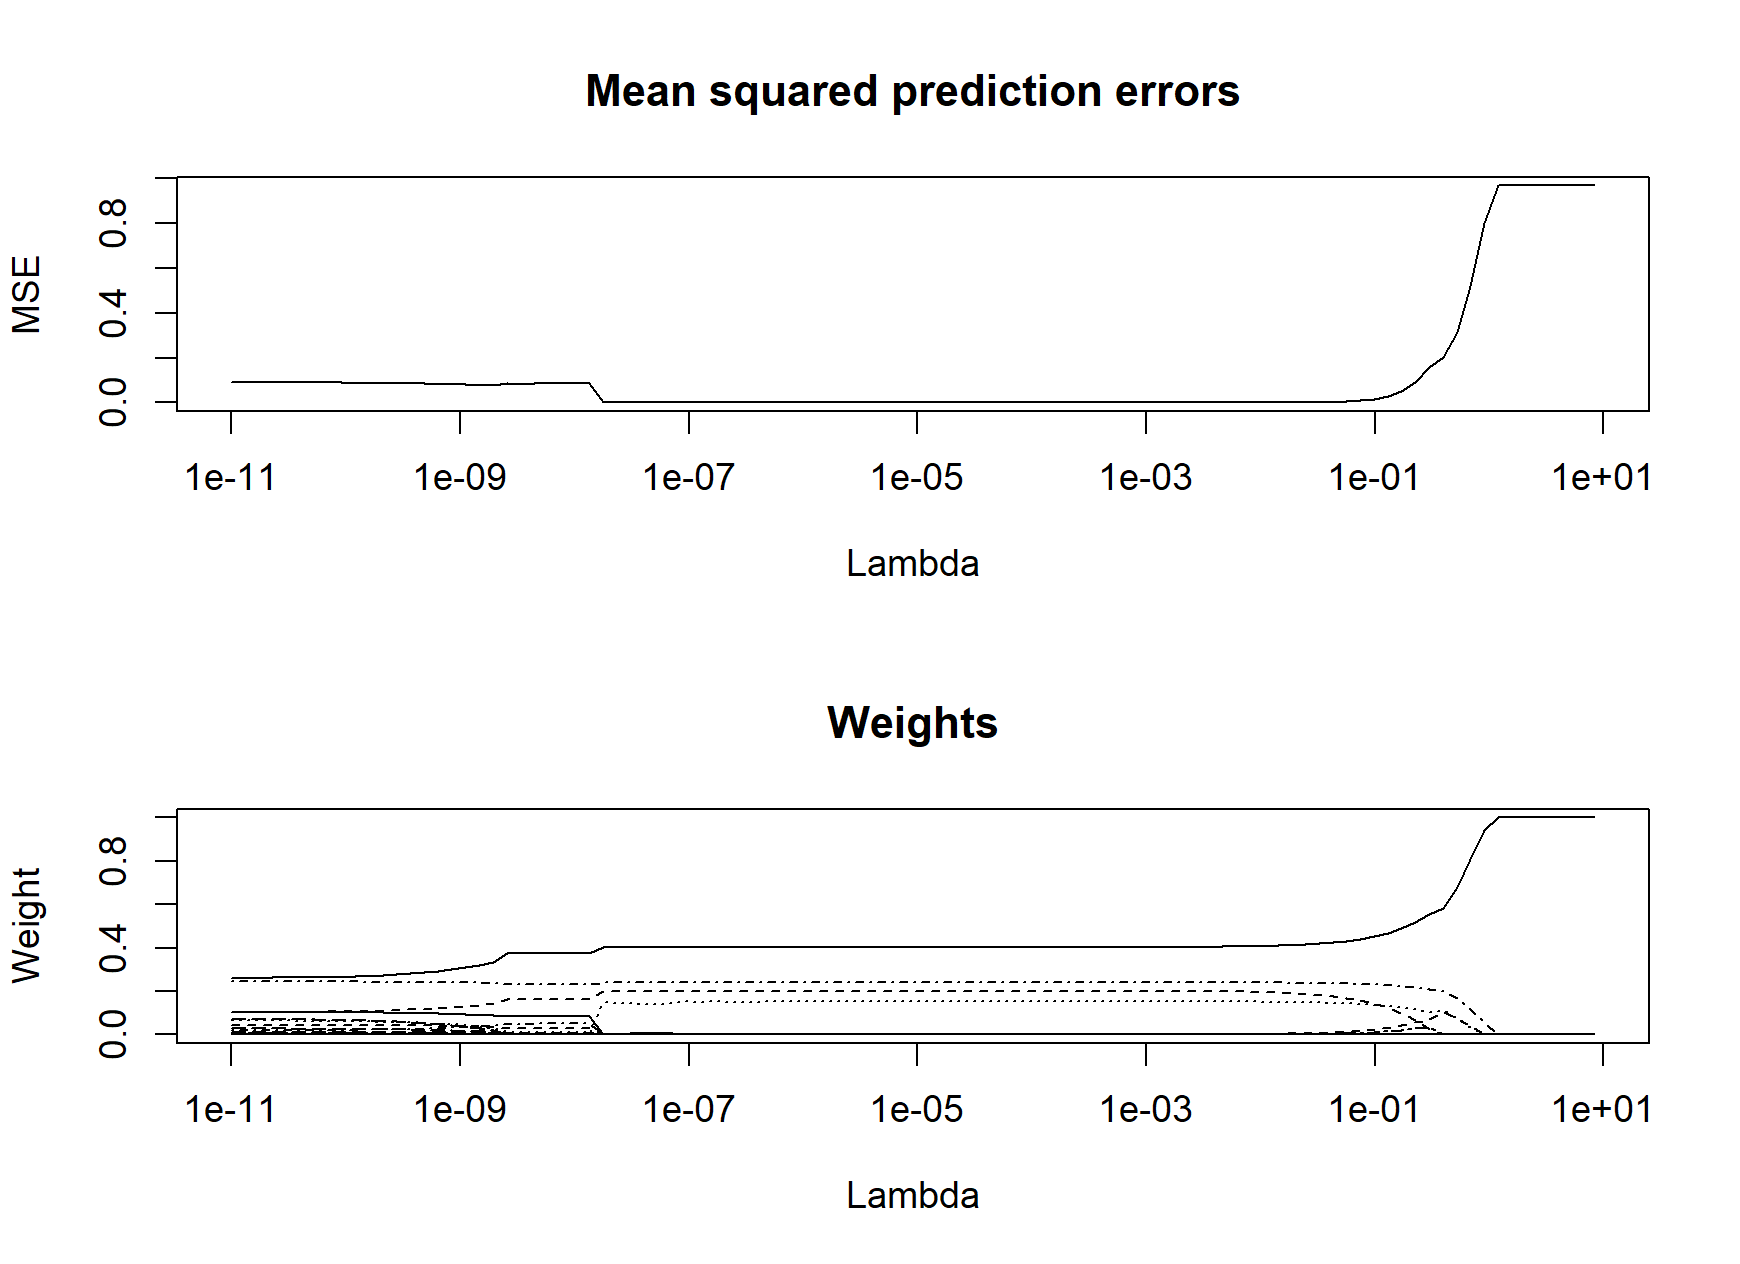
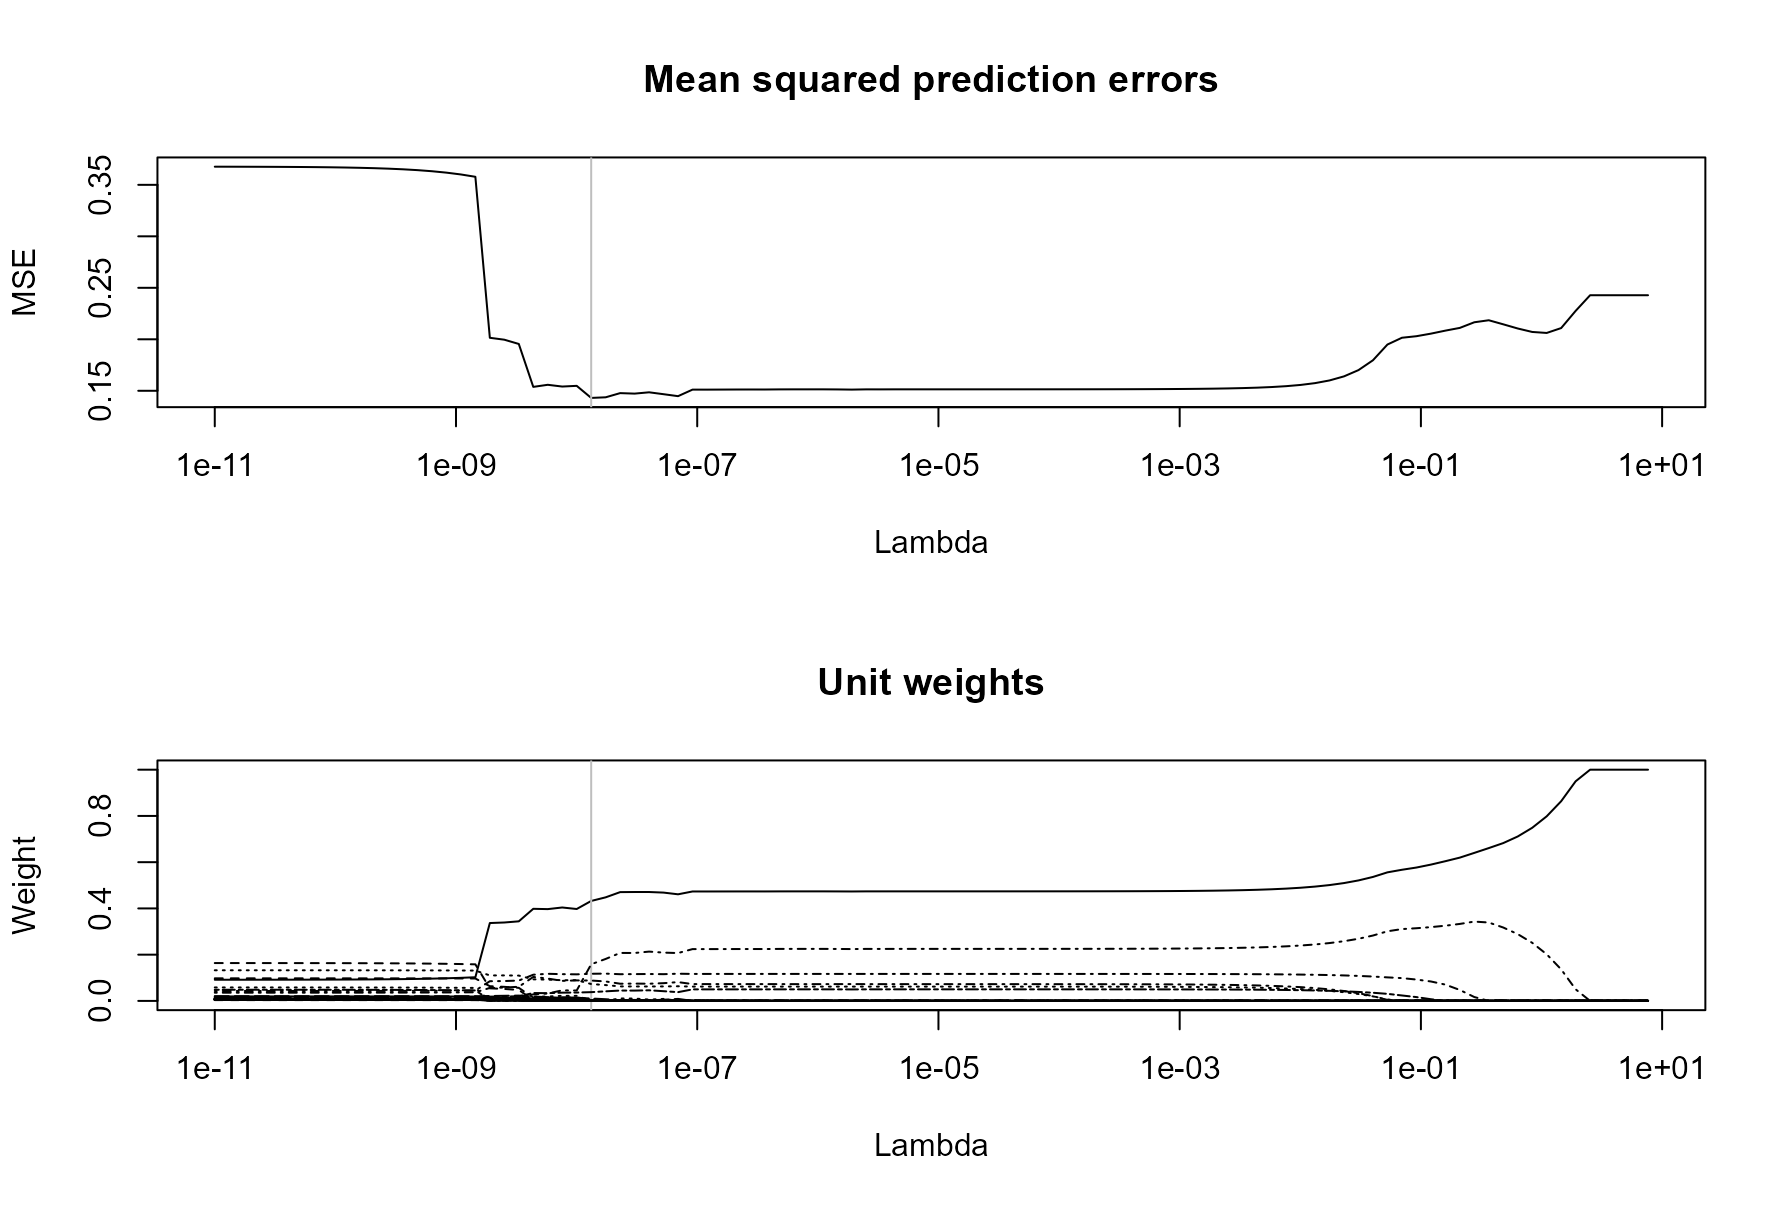
Update example & features in readme

diff --git a/README.md b/README.md
@@ -13,6 +13,7 @@ The goal of `pensynth` is to make it easier to perform penalized synthetic contr
 - Faster than the original `Synth::synth` implementation for "vanilla" synthetic controls, even for large donor pools, because we use the [`clarabel`](https://oxfordcontrol.github.io/ClarabelDocs/stable/) quadratic program solver.
 - Built-in hold-out validation on the pre-intervention outcome timeseries to determine the penalty parameter (see example below).
 - Plotting of the full solution path for hold-out validated penalized synthetic controls.
+- Built-in methods for printing, plotting, and performing a placebo permutation test of the ATE
 
 NB: in this implementation, variable weights have to be pre-specified (unlike in the original synthetic control implementation). Additionally, currently only a single treated unit is supported. 
 
@@ -64,39 +65,48 @@ The first term in the objective is the same (up to variable weights) as the orig
 
 ## Example
 
-``` r
+```r
 library(pensynth)
 set.seed(45)
 
-# Generate some data
-N_covar  <- 7   # number of covariates
-N_donor  <- 50  # number of donor units
-N_target <- 12 # pre-intervention time series length
-w  <- runif(N_donor) # true unit weights
-w[5:N_donor] <- 0    # set most to 0 (sparse)
-w  <- w / sum(w)     # normalize unit weights
-v  <- rep(1, N_covar) # equal variable weights
-
-# Create the synthetic control data matrices
-# following the Synth::synth() notation
-X0 <- matrix(rnorm(N_covar*N_donor), N_covar)  
-X1 <- X0 %*% w
-Z0 <- matrix(rnorm(N_target*N_donor), N_target)
-Z1 <- Z0 %*% w
+# Generate some data with a 0.8SD effect
+dat <- simulate_data(treatment_effect = 0.8)
 
 # Run penalized synthetic control
 # estimate lambda using pre-intervention timeseries MSE
-res <- cv_pensynth(X1, X0, v, Z1, Z0)
-plot_path(res)
+fit <- cv_pensynth(dat$X1, dat$X0, dat$Z1, dat$Z0)
+plot(fit)
 ```
 ![cvplot](img/cvplot.png)
 
 ```r
-# Compare final weights to true weights
-plot(w, main = "Estimated and true unit weights", xlab = "Donor unit", ylab = "Weight")
-points(res$w_opt, pch = 3)
+# Compute average treatment effect post-intervention
+Y1_synth <- predict(fit, dat$Y0)
+mean(dat$Y1 - Y1_synth)
 ```
-![wplot](img/weights.png)
+
+```
+#> [1] 0.8863562
+```
+
+```r
+# Perform a placebo permutation test
+fit_test <- placebo_test(fit, dat$Y1, dat$Y0)
+plot(fit_test)
+abline(h = 0.8, lty = 2)
+legend("bottomright", lty = 2, legend = "True effect")
+```
+![testplot](img/testplot.png)
+
+
+```r
+# compute a placebo-p-value
+1 - ecdf(fit_test$ATE0)(fit_test$ATE1)
+```
+
+```
+#> [1] 0.04
+```
 
 # References
 
